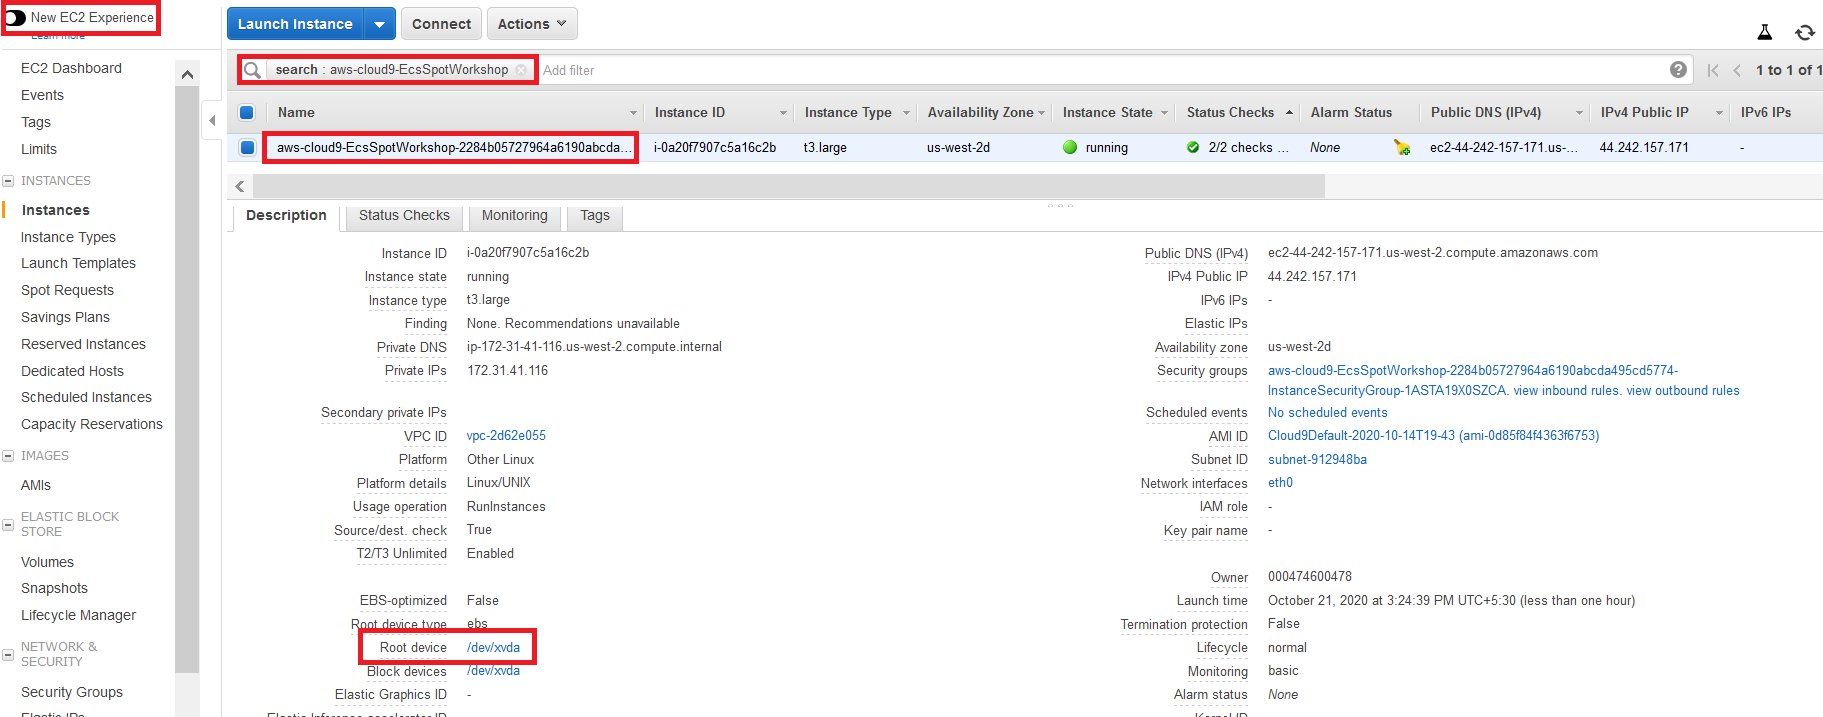
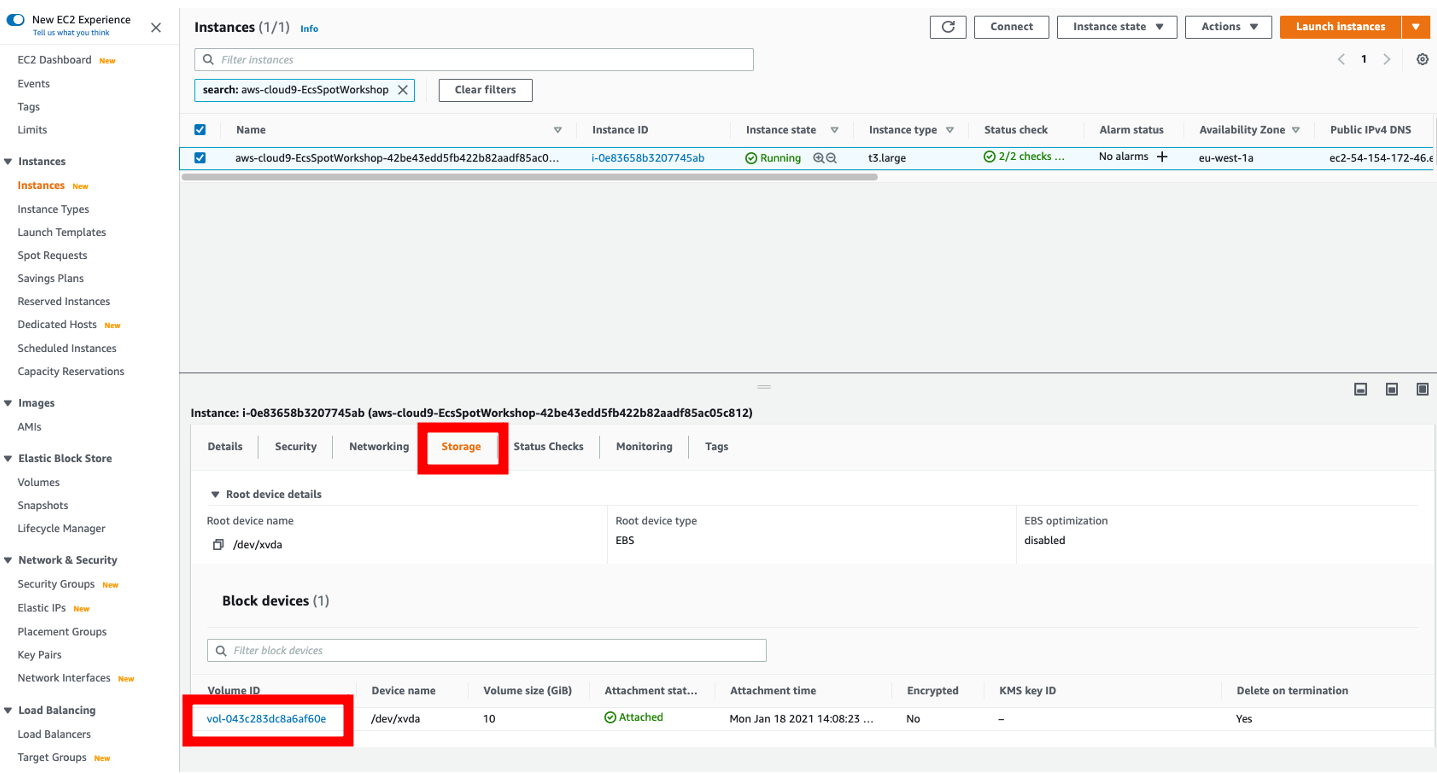
Changing numbers in the module and workspace setup

diff --git a/content/ecs-spot-capacity-providers/module-1/architecture.md b/content/ecs-spot-capacity-providers/module-1/architecture.md
@@ -1,30 +1,28 @@
 ---
 title: "Architecture"
 date: 2020-04-15T08:30:11-07:00
-weight: 7
+weight: 10
 ---
 
 Your Challenge
 ---
 
-Your company hosts external-facing Apache web servers serving millions of users across the globe, based on microservice architecture, and running inside Docker containers on an Amazon ECS Cluster. The underlying compute for the ECS Cluster is completely based on EC2 On-demand instances. Your company is forecasting huge traffic in the next couple of months and would like to leverage Amazon EC2 Spot instances for cost optimization. 
+Your company hosts external-facing Apache web servers serving millions of users across the globe, based on micro-services architecture running inside Docker containers on an Amazon ECS Cluster. The underlying compute for the ECS Cluster is completely based on EC2 On-demand instances. Your company is forecasting huge traffic in the next couple of months and would like to leverage Amazon EC2 Spot instances for cost optimization. 
 
 Also, the current scale in/out policies are based on the vCPU reservation metrics of the EC2 instances. However, it is observed that the ECS cluster does not scale fast enough to handle the sudden surge of web traffic during peak hours. During the scale in, sometimes EC2 instances that are actively running ECS tasks are getting terminated, causing disruption to the web service. 
 
-Also, as a long-term strategy, your company does not want to invest resources in undifferentiated heavy lifting of managing the underlying computing infrastructure and instead would like to evaluate running some containerized workloads on a serverless container platform, to further focus on the application and not the infrastructure.
+As a long-term strategy, your company does not want to invest resources in undifferentiated heavy lifting of managing the underlying computing infrastructure and instead would like to evaluate running some containerized workloads on a serverless container platform, to further focus on the application and not the infrastructure.
 
 You were introduced to Amazon EC2 Spot instances and few ECS features that can improve cluster scaling and increase the resilience of the applications. Your manager ask you to build a PoC to test all these features. 
 
 * What options do you have to incorporate EC2 Spot instances in your architecture? 
 * How do you plan to improve the cluster scaling and resilience of the applications?
  
-That is what you will build in this workshop.
-
 Here is the overall architecture. By the end of the workshop, you will achieve the following objectives.
 
-1. Explore the serverless computing options such as Fargate and Fargate Spot.
+1. Explore the serverless computing options such as ECS Fargate and ECS Fargate Spot.
 2. Explore both EC2 Spot and On-Demand instances for the underlying compute platform.
-3. Leverage ECS features such capacity providers and cluster autoscaling to improve the scaling and resilience of the applications
+3. Leverage ECS features such capacity providers and Cluster Autoscaling (CAS) to improve the scaling and resilience of the applications
 
 
 #### Amazon ECS Application Architecture:

diff --git a/content/ecs-spot-capacity-providers/WorkshopSetup/launch_cloudformation.md b/content/ecs-spot-capacity-providers/WorkshopSetup/launch_cloudformation.md
@@ -1,14 +1,11 @@
 ---
-title: "Setup with CloudFormation"
-weight: 5
----
-
-Launch the CloudFormation stack 
+title: "Deploy CloudFormation Stack"
+weight: 10
 ---
 
 To save time on the initial setup, a CloudFormation template will be used to create the required resources needed for the workshop.
  
-1. You can view and download the CloudFormation template from GitHub [here] (https://github.com/ec2-spot-workshops/workshops/ecs-spot-capacity-providers/ecs-spot-workshop-cfn.yaml).
+1. You can view and download the CloudFormation template from GitHub [here] (https://raw.githubusercontent.com/awslabs/ec2-spot-workshops/master/workshops/ecs-spot-capacity-providers/ecs-spot-workshop-cfn.yaml).
 2. Take a moment to review the CloudFormation template so you understand the resources it will be creating.
 3. Browse to the [AWS CloudFormation console] (https://console.aws.amazon.com/cloudformation). Make sure you are in AWS region designated by the facilitators of the workshop.
 4. Click **Create stack**.
@@ -21,8 +18,7 @@ To save time on the initial setup, a CloudFormation template will be used to cre
 11. Click **Next**.
 12. Review the information for the stack. At the bottom under *Capabilities*, select **I acknowledge that AWS CloudFormation might create IAM resources*. When you’re satisfied with the settings, click **Create stack**.
 
-Monitor the progress of stack creation 
----
+### Monitor the progress of stack creation 
 
 It will take roughly 5 minutes for the stack creation to complete.
 
@@ -44,8 +40,7 @@ Note that if you are running this workshop inside an Event Engine, the CloudForm
 ![CloudFormation Stack](/images/ecs-spot-capacity-providers/CFN_stacks.png) 
 
 
-The CloudFormation stack creates the following resources for the workshop.
-
+The CloudFormation stack creates the following resources for the workshop. 
 
 * 1 VPC with 6 subnets; 3 public and 3 private subnets
 * Application Load Balancer (ALB) with its own security group

diff --git a/content/ecs-spot-capacity-providers/WorkshopSetup/setup_cloud9_workspace.md b/content/ecs-spot-capacity-providers/WorkshopSetup/setup_cloud9_workspace.md
@@ -1,12 +1,13 @@
 ---
 title: "Setup Cloud9 Environment"
-weight: 6
+weight: 20
 ---
 
+{{% notice warning %}}
+If you are running the workshop on your own, the Cloud9 workspace should be built by an IAM user with Administrator privileges, not the root account user. 
+{{% /notice %}}
 
-If you are running the workshop on your own, the Cloud9 workspace should be built by an IAM user with Administrator privileges, not the root account user. Please ensure you are logged in as an IAM user.
-
-We will open the Cloud9 environment first to execute all the commands needed for this workshop.
+Please ensure you are logged in as an IAM user. We will open the Cloud9 environment first to execute all the commands needed for this workshop.
 
 1. Login into AWS console with your account credentials and choose the region where you deployed the CloudFormation template.
 1. Select **Services** and type **Cloud9**

diff --git a/content/ecs-spot-capacity-providers/WorkshopSetup/resize_ebs.md b/content/ecs-spot-capacity-providers/WorkshopSetup/resize_ebs.md
@@ -1,7 +1,7 @@
 ---
 title: "Resize Cloud9 Instance Root Volume"
 chapter: false
-weight: 7
+weight: 30
 ---
 
 ## Resize Cloud9 EBS
@@ -12,14 +12,10 @@ Thus, let us resize the EBS volume used by the Cloud9 instance.
 To change the EBS volume, please do
 
    1. Select the Cloud9 instance in the EC2 console [deep link to get there](https://console.aws.amazon.com/ec2/v2/home?#Instances:search=aws-cloud9-EcsSpotWorkshop)
-   2. Click the **Root-device: /dev/xvda** link
+   2. Click the **Storage :** Section 
+   3. Click on the Volume ID. That will take you to the EBS Volume page details.
 
-   ![resize_ebs_0](/images/ecs-spot-capacity-providers/cloud9_instance.png)
-
-   3. click on the EBS-ID in the box appearing
-
-![resize_ebs_0](/images/ecs-spot-capacity-providers/EBS_volume_id.png)
-
+![resize_ebs_0](/images/ecs-spot-capacity-providers/cloud9_instance.png)
 
 Modify the EBS volume.
 

diff --git a/content/ecs-spot-capacity-providers/before/aws_event.md b/content/ecs-spot-capacity-providers/before/aws_event.md
@@ -19,7 +19,7 @@ If you are at an AWS event, an AWS account created for you to use throughout the
 
 You are now logged in to the AWS console in an account that was created for you, and will be available only throughout the workshop run time.
 
-You can now proceed to the workshop steps [**Setup the workshop environment on AWS**]()
+You can now proceed to the workshop steps [**Setup the workshop environment on AWS**](/ecs-spot-capacity-providers/workshopsetup.html)
 
 {{% notice info %}}
 **Optional:**  If you want to read through basic concepts on Amazon ECS before doing workshop steps, you may go to [Introduction](/ecs-spot-capacity-providers/introduction.html")

diff --git a/content/ecs-spot-capacity-providers/WorkshopSetup/attach_iam_role.md b/content/ecs-spot-capacity-providers/WorkshopSetup/attach_iam_role.md
@@ -1,13 +1,12 @@
 ---
 title: "Attach IAM role to Cloud9 workspace"
-weight: 10
+weight: 40
 ---
 
 In order to work with ECS from our new Cloud9 IDE environment, we need the required permissions.
 
 * Find your Cloud9 EC2 instance [here] (https://console.aws.amazon.com/ec2/v2/home?#Instances:search=aws-cloud9-EcsSpotWorkshop)
-
-* Select the Instance, then choose Actions -> Security -> Modify IAM Role
+* Select the Instance, then choose **Actions** -> **Security** -> **Modify IAM Role**
 
 ![Attach IAM Role](/images/ecs-spot-capacity-providers/attach_iam_role.png)
 

diff --git a/content/ecs-spot-capacity-providers/module-1/application_view.md b/content/ecs-spot-capacity-providers/module-1/application_view.md
@@ -1,6 +1,6 @@
 ---
 title: "Test application and check Task distribution in the Cluster"
-weight: 65
+weight: 150
 ---
 
 In this section, let us first check if our web application deployed successfully and working as expected. We will also check if ECS spreads our tasks across CP-OD and CP-SPOT capacity provides under the strategy we used during the service configuration.

diff --git a/content/ecs-spot-capacity-providers/module-1/service.md b/content/ecs-spot-capacity-providers/module-1/service.md
@@ -1,6 +1,6 @@
 ---
 title: "Create an ECS service"
-weight: 55
+weight: 130
 ---
 
 In this section we will create an ECS service which uses the default cluster capacity provider strategy to spread tasks on CP-OD and CP-SPOT: **CP-OD base=2 & weight=1** and **CP-SPOT weight=3**. This capacity provider strategy created based on the following application requirements:

diff --git a/content/ecs-spot-capacity-providers/module-1/asg_with_spot.md b/content/ecs-spot-capacity-providers/module-1/asg_with_spot.md
@@ -1,6 +1,6 @@
 ---
 title: "Create EC2 Spot Auto Scaling group"
-weight: 15
+weight: 70
 ---
 
 In this section, you create an Auto Scaling group for EC2 Spot Instances using the Launch Template created by the CloudFormation stack. This procedure is exactly the same as the previous section, except for a few changes specific to the configuration for Spot Instances.

diff --git a/content/ecs-spot-capacity-providers/module-1/webapp.md b/content/ecs-spot-capacity-providers/module-1/webapp.md
@@ -1,7 +1,8 @@
 ---
 title: "Build webapp docker image and Register ECS Task Definition"
-weight: 45
+weight: 120
 ---
+
 In this section we will build a simple python flask-based web application and deploy in our ECS cluster.
 
 Note the initial CloudFormation template already created an ECR registry.  

diff --git a/content/ecs-spot-capacity-providers/module-1/visualizer.md b/content/ecs-spot-capacity-providers/module-1/visualizer.md
@@ -1,6 +1,6 @@
 ---
 title: "Setup C3vis (Cloud Container Cluster Visualizer)  Tool"
-weight: 35
+weight: 100
 ---
 
 The [C3vis](https://github.com/ExpediaDotCom/c3vis) open source tool is useful to show the visual representation of the tasks placements across instances in an ECS Cluster.  

diff --git a/content/ecs-spot-capacity-providers/module-1/spot_inturruption_handling.md b/content/ecs-spot-capacity-providers/module-1/spot_inturruption_handling.md
@@ -1,6 +1,6 @@
 ---
 title: "EC2 Spot Interruption Handling in ECS"
-weight: 80
+weight: 170
 ---
 
 The Amazon EC2 service interrupts your Spot instance when it needs the capacity back. It provides a Spot instance interruption notice, 2 minutes before the instance gets terminated.
